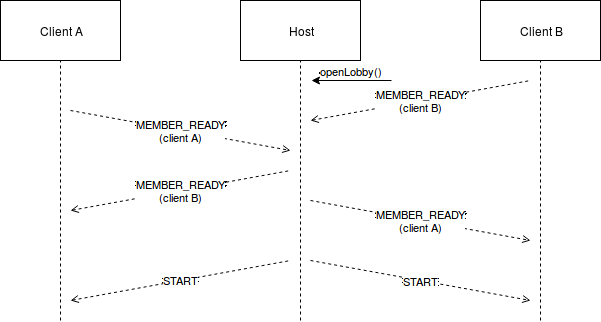
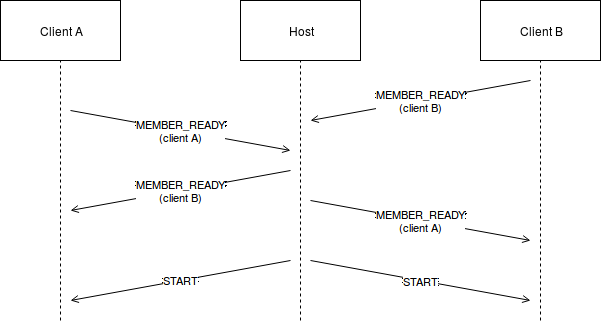
Add new details about game mechanics and data transmission - Update data transmission schema - Update images - Add new references

diff --git a/res/sections/04-GameBank.tex b/res/sections/04-GameBank.tex
@@ -27,9 +27,9 @@ There are two ways to start a match: loading the game from a save and starting
 a new one. In any case, the smartphone performing one of these actions becomes 
 the Bluetooth master, and it starts waiting for other players to join the 
 lobby. When a player joins, she has the possibility to ``poke'' the master, 
-that sees a toast message on her screen. Additionally, the player that join the 
-match has to set herself as ready: indeed a match can not start if anyone in the 
-lobby is not ready. 
+that sees a toast message on her screen (this actions sends a \texttt{POKE} 
+event). Additionally, the player that join the match has to set herself as 
+ready: indeed a match can not start if anyone in the lobby is not ready. 
 The connections created is an ad-hoc one, but as a matter of fact the master 
 forwards the packets it receives to everyone after the match starts, simulating 
 a P2P (Peer-to-Peer) networking. We saw this as an opportunity to semplificate 
@@ -89,18 +89,18 @@ When a user opens a match, in the network layer a Bluetooth socket is opened
 and set up for an incoming connection. When a client connects to the host, first 
 it saves its UUID, then it perform a \textit{rendezvous}: in other words a 
 \texttt{BTBundle} with all the client information is sent (including player 
-username and profile picture). This is the slower phase of the connection: 
-indeed transferring the profile picture is a heavy task for Bluetooth, that 
-takes seconds to transfer the image, even if we used compression techniques to 
-reduce images dimensions. We called this event \texttt{MEMBER\_CONNECTED}. 
-Since the connection of a new member needs to be broadcasted to everyone, the 
-host forwards to all the other clients already in the lobby the 
-\texttt{BTBundle} the new member initially sent, acting in a transparent way. 
-When this phase is completed, the host informs the new client with all the 
-informations regarding the match, as the lobby name and a list of players 
-already connected. We labelled this event as \texttt{CURRENT\_STATE}. In case 
-the match comes from a previous save, the new client receives, in the same 
-event, all the transactions performed before too.
+username and profile picture) to the host. This is the slower phase of the 
+connection: indeed transferring the profile picture is a heavy task for 
+Bluetooth, that takes seconds to transfer the image, even if we used compression 
+techniques to reduce images dimensions. We called this event 
+\texttt{MEMBER\_CONNECTED}. Since the connection of a new member needs to be 
+broadcasted to everyone, the host forwards to all the other clients already in 
+the lobby the \texttt{BTBundle} the new member initially sent, acting in a 
+transparent way. When this phase is completed, the host informs the new client 
+with all the informations regarding the match, as the lobby name and a list of 
+players already connected. We labelled this event as \texttt{CURRENT\_STATE}. In 
+case the match comes from a previous save, the new client receives, in the same 
+event, all the transactions performed before.
 
 \begin{figure}[t]
  \centering
@@ -109,3 +109,37 @@ event, all the transactions performed before too.
  \label{fig:gbConnectionSchema}
 \end{figure}
 
+A match can start when all the members are ready. In order to do so, users have 
+to check the option in the lobby. When this action is performed, a 
+\texttt{MEMBER\_READY} event is triggered. This event is broadcasted to everyone 
+to allow the other clients to update their UI.
+
+When the host choose to start the match, the event \texttt{START} is 
+broadcasted too, making the clients start the dashboard activity.
+
+\begin{figure}[t]
+ \centering
+ \includegraphics[scale=0.42]{StartMatch}
+ \caption{Schema of a start of a match}
+ \label{fig:gbStartMatch}
+\end{figure}
+
+\subsection{Data transmission}
+
+We decided to transfer all the data in JSON format, encoding with base64 all the
+non-text content.
+Of all the transport protocols available in Bluetooth, we have chosen RFCOMM to 
+carry data between devices. First of all, RFCOMM has a behaviour similar to TCP 
+and it is recommend for data transfers~\cite{bisdikian01}. Secondly, Android 
+offers a Bluetooth API based on RFCOMM that gives the possibility to open 
+sockets and treat them as standard TCP connections.
+RFCOMM is usually referred as a serial port emulator, it is make on top of 
+the L2CAP protocol~\cite{bisdikian01}, and allows up to 60 simultaneous 
+connections between two Bluetooth devices~\cite{aneesh12}.
+
+The communications during the game creation are synchronous when 
+\texttt{MEMBER\_CONNECTED} and \texttt{CURRENT\_STATE} events happen, while 
+they are asynchronous for packets regarding \texttt{POKE} 
+and \texttt{MEMBER\_READY} actions. Instead, during the match, all the 
+communications are performed synchronously since the order of the transactions 
+is very important.

diff --git a/res/sections/90-Bibliography.tex b/res/sections/90-Bibliography.tex
@@ -22,5 +22,19 @@
   Eduard Bicego, Davide Polonio,
   \emph{GameBank source code},
   \url{https://github.com/Codernauti/GameBank}.
+  
+\bibitem{bisdikian01}
+  C. Bisdikian,
+  \emph{An overview of the Bluetooth wireless technology},
+  2001,
+  IEEE Communications Magazine, pages 86-94,
+  \url{https://doi.org/10.1109/35.968817}
+
+\bibitem{aneesh12}
+  R. Aneesh and B. Sreekumari. and K. Jiju.,
+  \emph{Design and implementation of Bluetooth MAC core with RFCOMM on FPGA},
+  2012,
+  2012 Annual IEEE India Conference (INDICON), pages 422-426,
+  \url{https://doi.org/10.1109/INDCON.2012.6420655}
 
 \end{thebibliography}
